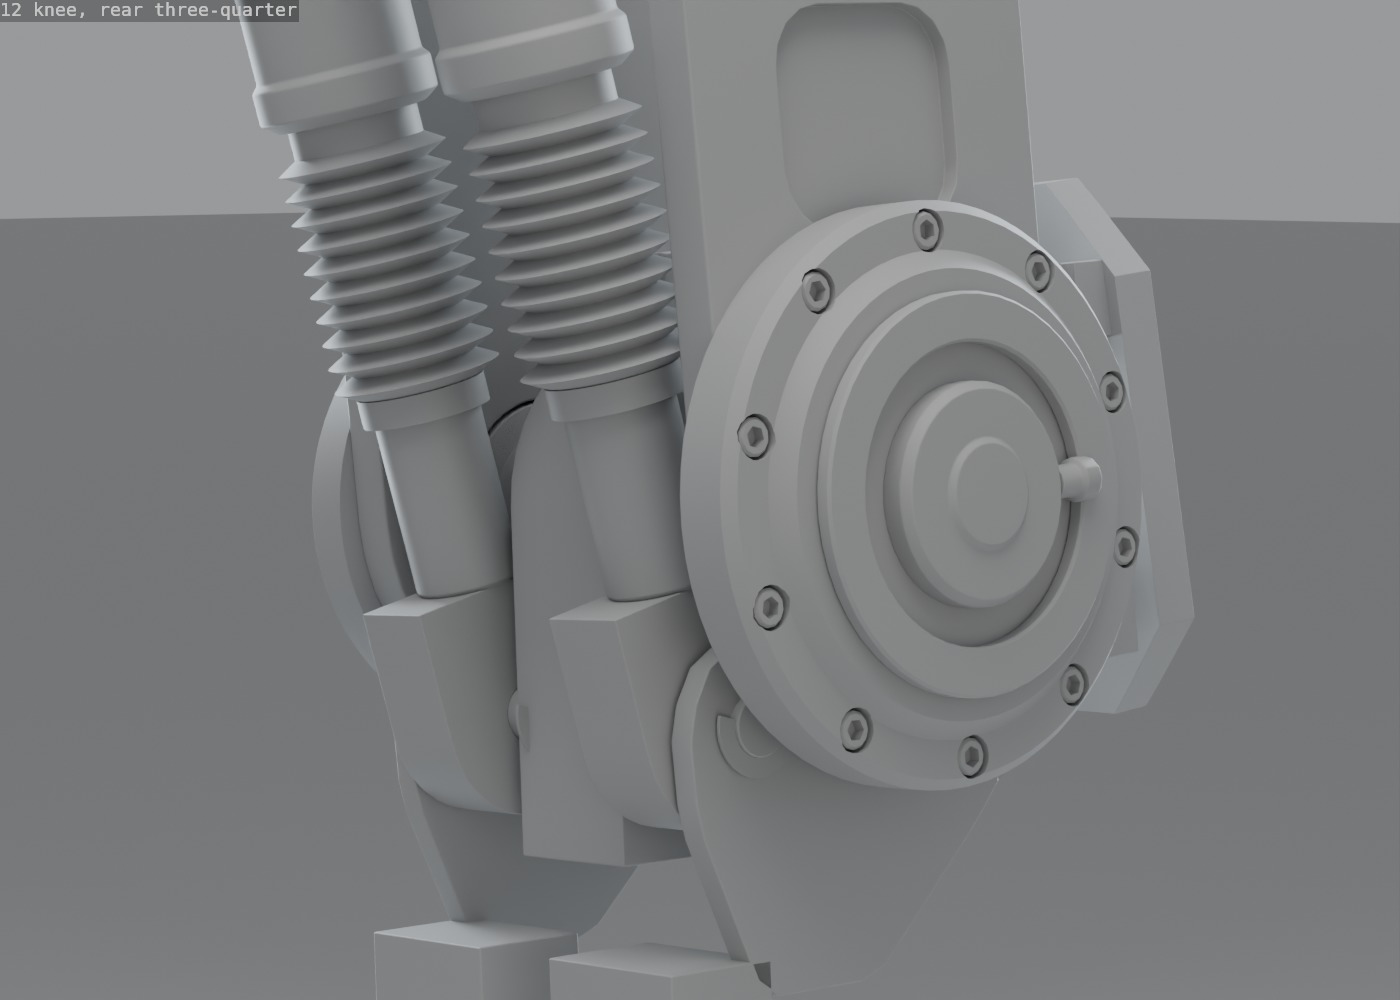
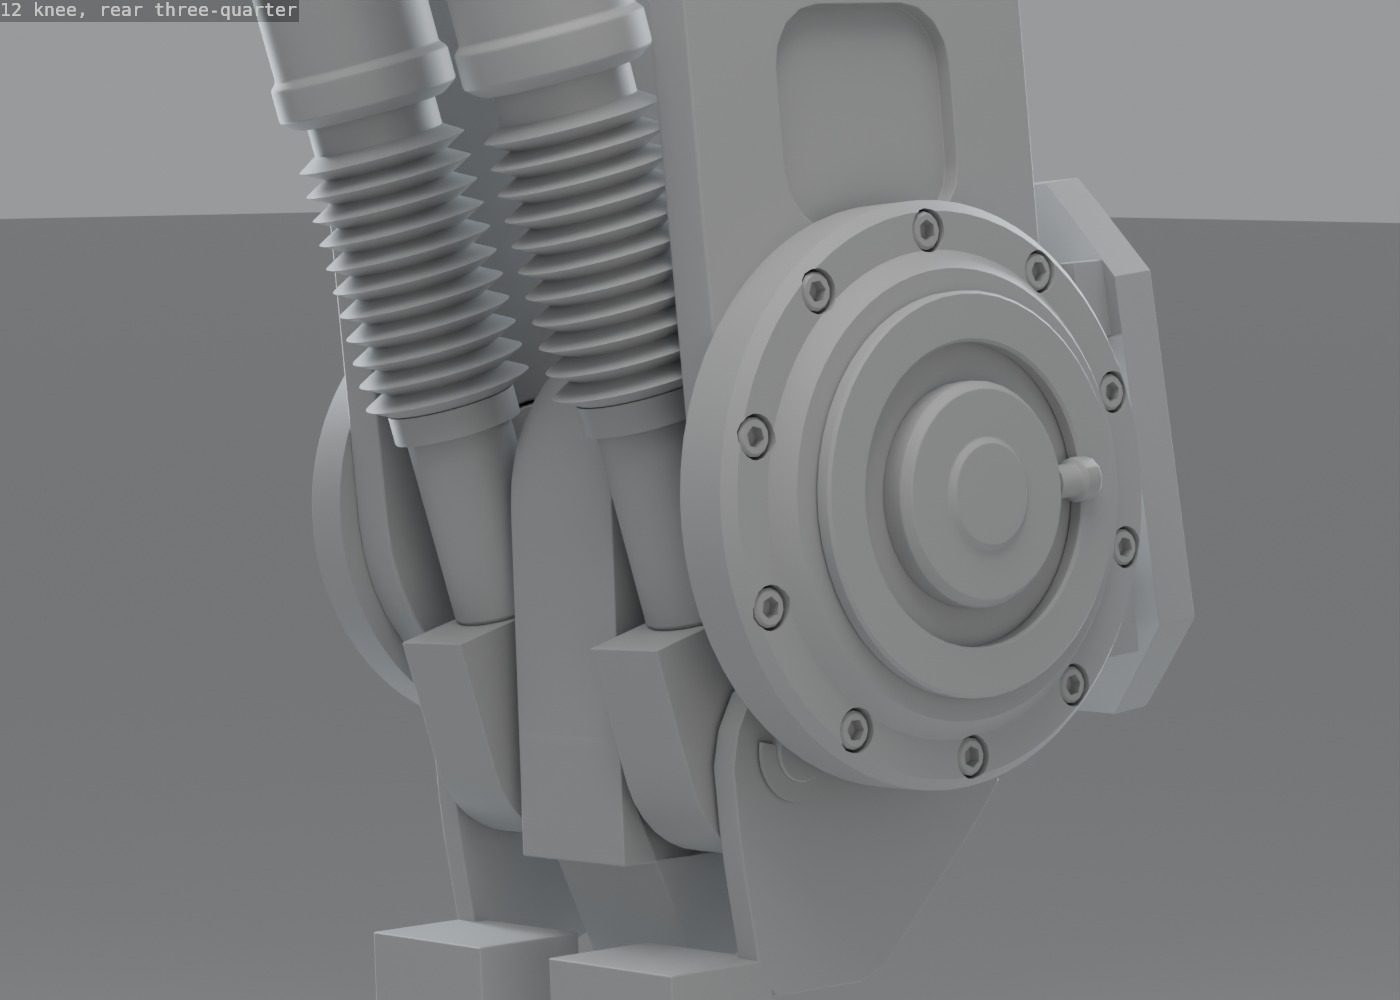
Knee crank phased so the lever arm is equal at both ends of travel (40 mm), 70 mm mid-range

diff --git a/blender/rj28/modelrun.py b/blender/rj28/modelrun.py
@@ -1,8 +1,13 @@
-"""Command-line driver for the detailed model (see build.py)."""
+"""Command-line driver for the detailed model (see build.py).
+
+Options: only=a,b  noctx  sheets  close  robot  sweep  save  axes  explode  measure
+         phase=<review folder>  tag=<suffix>  mode=clay|final
+"""
 import importlib
 import json
 
 import bpy
+from mathutils import Vector
 
 from . import model, parts, poses, render as RD, review
 
@@ -13,13 +18,14 @@ def run(opts):
     built = model.build(only, context="noctx" not in opts)
     out = RD.REVIEW / arg.get("phase", "phase3")
     tag = arg.get("tag", "")
+    if "axes" in opts:
+        from . import axes
+        print("AXES", len(axes.build()))
     if "sweep" in opts:
         res = poses.sweep_check(report=RD.ROOT / "blender" / "out" / "mount_sweep_model.json")
         print("SWEEP", "PASS" if res["passed"] else "FAIL", res["min_clearance_mm"])
         for z in res["zones"][:8]:
             print("  ", z)
-    if "save" in opts:
-        bpy.ops.wm.save_as_mainfile(filepath=str(RD.ROOT / "blender" / "out" / f"model{tag}.blend"))
     if "sheets" in opts:
         for aa, a in built.items():
             objs = [o for o in a.parts if o.type == "MESH"]
@@ -27,7 +33,7 @@ def run(opts):
                 continue
             name = a.title.replace(", ", "_").replace(" ", "_").lower()
             review.sheet(objs, out / f"{aa}_{name}_clay{tag}.jpg", f"{aa} {a.title}")
-    # assembly modules may define review(asm, out) for their own close-ups
+    # assembly modules may define review(asm, out, tag) for their own close-ups
     if "close" in opts:
         for (m, s, aa, _z) in model.PLAN:
             if aa in built:
@@ -36,5 +42,40 @@ def run(opts):
                     mod.review(built[aa], out, tag)
     if "robot" in opts:
         review.robot(out, tag, arg.get("mode", "clay"))
+    if "explode" in opts or "measure" in opts:
+        from . import explode
+        explode.apply()
+    if "measure" in opts:
+        from . import measure
+        spec, rows = measure.run(write="write" in opts)
+        m = spec["mass"]
+        print("MASS", m["total_kg"], "kg", m["error_pct"], "%", json.dumps(m["by_class"]))
+        print("MASS_ASM", json.dumps({a["assembly"]: a["mass_kg"] for a in m["by_assembly"]}))
+        print("FILL", json.dumps(m["fill_factors"]))
+        print("ENVELOPE", json.dumps(spec["envelope"]), "crown", spec["height_to_cap_crown"], "span",
+              spec["shoulder_armour_span"])
+        for n in spec["design_notes"]:
+            print("NOTE", n["title"])
+            for w in n["working"]:
+                print("   ", w)
+    if "explode" in opts:
+        from . import explode
+        everything = [o for o in bpy.data.objects if o.type == "MESH" and "rj28_number" in o]
+        for amt, name in ((0.5, "stage1"), (1.0, "full")):
+            explode.pose(amt)
+            for v, d in (("front", (0, -1, 0)), ("q", (-0.55, -0.75, 0.3))):
+                RD.setup(48, 1500, 1500)
+                dv = Vector(d).normalized()
+                if v == "front":
+                    RD.camera((0, -12000, 950), (0, 0, 950), ortho=3600.0)
+                else:
+                    RD.camera(tuple(Vector((0, 0, 950)) + dv * 11000), (0, 0, 950), lens=85)
+                RD.studio((0, 0, 1000), 3400.0, power=0.42, front=Vector((dv.x, dv.y, 0)).normalized())
+                RD.floor(-900.0, base=0.35, rough=0.7)
+                RD.world(0.55, (0.62, 0.64, 0.66))
+                RD.render(out / f"explode_{name}_{v}{tag}.jpg", arg.get("mode", "clay"), f"exploded {name} {v}")
+        explode.pose(0.0)
+    if "save" in opts:
+        bpy.ops.wm.save_as_mainfile(filepath=str(RD.ROOT / "blender" / "out" / f"model{tag}.blend"))
     counts = {aa: len(a.parts) for aa, a in built.items()}
     print("COUNTS", json.dumps(counts), "TOTAL", len(parts.all_parts()))

diff --git a/blender/rj28/assemblies/leg.py b/blender/rj28/assemblies/leg.py
@@ -10,11 +10,12 @@ Frames (rj28.frames.leg): thigh and shin frames have +X along the joint axes,
 Knee kinematics. The thigh ends in a fork: two long cheeks either side of an
 open corridor. The shin's tang sits in the middle of the fork on the knee
 shaft, and carries a crank pin KNEE_CRANK from the axis on each side. The two
-actuators run down the corridor from the top of the thigh to those pins. The
-pin sits half the knee's range below "straight back" when the leg is straight,
-so the lever arm is KNEE_CRANK * cos(flexion - range / 2): it peaks in
-mid-range and never falls below 57% of the crank radius, and the rod always
-passes the slim knee shaft with room to spare.
+actuators run down the corridor from the top of the thigh to those pins. With
+the leg straight the pin sits half the knee's range (plus KNEE_PHASE, because
+the actuator leans back) below "straight back". The lever arm then peaks at
+the crank radius in mid-range and is the same at both ends of travel, about
+57% of the crank radius, so the rod always passes the slim knee shaft.
+measure.py prints the lever arm across the range from these pivots.
 """
 import math
 
@@ -28,8 +29,9 @@ from ..parts import ACTUATOR_FN, Asm, raw
 
 ACT_X = 42.0                                         # knee actuators sit this far either side of the leg centre
 _H = math.radians(PR.KNEE_RANGE / 2)
+_A = math.radians(PR.KNEE_RANGE / 2 + PR.KNEE_PHASE)
 KNEE_P0 = (ACT_X, 120.0, -62.0)                      # body-end pivot, thigh frame
-KNEE_P1 = (ACT_X, PR.KNEE_CRANK * math.cos(_H), -PR.KNEE_CRANK * math.sin(_H))   # crank pin, shin frame
+KNEE_P1 = (ACT_X, PR.KNEE_CRANK * math.cos(_A), -PR.KNEE_CRANK * math.sin(_A))   # crank pin, shin frame
 KNEE_STROKE = 2 * PR.KNEE_CRANK * math.sin(_H)
 CHEEK_X = 74.0                                       # knee fork cheeks (14 thick) centred here
 ANKLE_P0 = (40.0, 86.0, -150.0)                      # shin frame
@@ -121,7 +123,7 @@ def build(s):
 
     # ── knee: slim shaft through the fork, bearing housings outside the cheeks ──
     xe = CHEEK_X + 7.0                               # outer face of a cheek
-    shaft = [(0, -xe - 14), (30, -xe - 14), (30, -xe + 14.5), (22, -xe + 16.5), (22, xe - 16.5), (30, xe - 14.5),
+    shaft = [(0, -xe - 14), (30, -xe - 14), (30, -xe + 14.5), (20, -xe + 17.5), (20, xe - 17.5), (30, xe - 14.5),
              (30, xe + 14), (0, xe + 14)]
     a.add("Knee_Shaft", P.revolve(shaft, 48), "Knee shaft: runs in the fork's bearings and carries the shin tang.", "ti",
           Kn @ R("Y", 90), bevel=0.6)
@@ -182,7 +184,7 @@ def build(s):
     py, pz = KNEE_P1[1], KNEE_P1[2]
     root = Vector((0, -(py - 6), -(pz + 112))).normalized()          # from the crank pin down into the beam
     bm = bmesh.new()
-    P.merge(bm, P.lug(50, 22.3, 96, 44, 40), frame((0, 0, 0), (1, 0, 0), (0, 0, 1)))            # tang on the shaft
+    P.merge(bm, P.lug(50, 20.3, 96, 44, 40), frame((0, 0, 0), (1, 0, 0), (0, 0, 1)))            # tang on the shaft
     P.merge(bm, P.lug(24, 8.4, 60, 44, 24), frame((0, py, pz), (1, 0, 0), tuple(-root)))        # centre crank lobe
     plate = P.chamfer_poly([(py + 22, pz + 2), (py + 12, pz + 20), (py - 12, pz + 22), (-36, -62), (-52, -76), (-40, -90),
                             (0, -128), (40, -128), (py + 20, pz - 24)], 5)

diff --git a/blender/rj28/params.py b/blender/rj28/params.py
@@ -49,6 +49,7 @@ SHIN = (Z_KNEE - Z_ANKLE) / _LEG_COS
 # ── knee crank (see assemblies/leg.py) ───────────────────────────────────────
 KNEE_RANGE = 110.0               # flexion, degrees
 KNEE_CRANK = 70.0                # crank pin radius about the knee axis
+KNEE_PHASE = 13.0                # extra lead of the crank pin: the actuator leans back, so the lever peaks later
 
 # ── torso envelope ───────────────────────────────────────────────────────────
 CHEST_FRONT_Y = -190.0           # outer face of the pectoral armour
